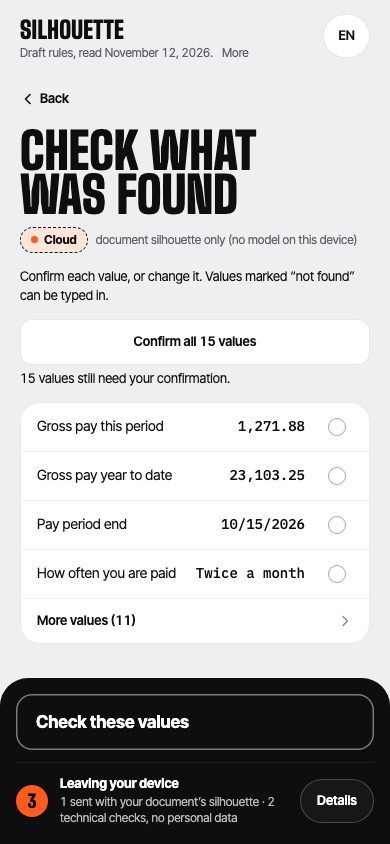
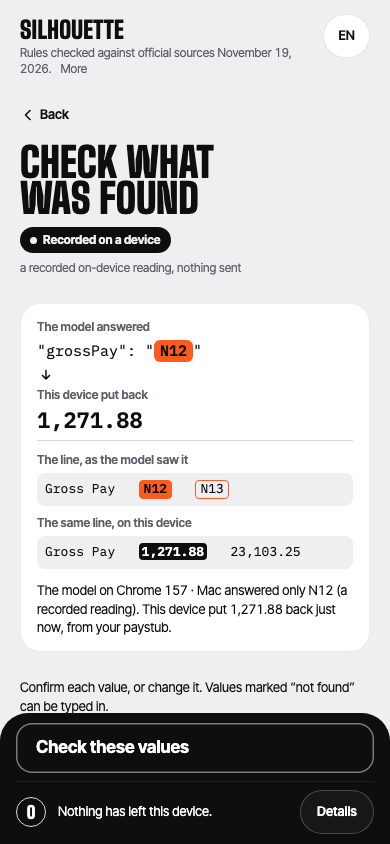
README: current screens - the web's judged path, and the iOS app on a real iPhone 17 Pro read by its own model

diff --git a/README.md b/README.md
@@ -8,18 +8,18 @@ Web, Android and iOS, built on one shared contract. Firebase AI Logic runs each 
 
 <p>
   <img src="docs/images/start.png" width="210" alt="Start screen: Find public benefits you may qualify for. An example shows a paystub on this device next to what could leave: placeholders W1, W2 and N12.">
-  <img src="docs/images/results.png" width="210" alt="Results from the rules on this device: three programs you may qualify for, two possible, one depending on a skipped answer, one probably not. Leaving your device: 0.">
-  <img src="docs/images/silhouette-first-screen.png" width="210" alt="This is what could leave your device: the paystub with every name, number and date replaced by an orange token chip.">
+  <img src="docs/images/results.png" width="210" alt="Results of the invented sample household: a note that it is a sample, not you; what the paystub changed (its yearly income, the results it changed); then the programs, each with its status and estimate. Leaving your device: 0.">
+  <img src="docs/images/silhouette-first-screen.png" width="210" alt="This is what could leave your device: the paystub with every name, number and date replaced by an orange token chip, and the ways on: read it from a recording on a device or in the cloud, or send the silhouette.">
 </p>
 
 <p>
   <img src="docs/images/ios-start.png" width="210" alt="The iOS app's start screen: the same headline and example in a native SwiftUI layout, with the privacy pill 'Nothing has left this iPhone' above the tab bar.">
-  <img src="docs/images/ios-results.png" width="210" alt="iOS results: You may qualify for 3 programs, checked on this iPhone, no AI used, then one card per program.">
-  <img src="docs/images/ios-silhouette.png" width="210" alt="iOS: What could leave. The sample paystub as token chips, with Send the silhouette and Keep everything on this iPhone.">
-  <img src="docs/images/ios-review.png" width="210" alt="iOS review: the values read from the paystub, each to confirm, and the yearly income worked out on this iPhone.">
+  <img src="docs/images/ios-results.png" width="210" alt="iOS on a real iPhone 17 Pro: You may qualify for 5 programs, checked on this iPhone, Rules + paystub; the sample household named as such; what the paystub changed, read by the model on this iPhone.">
+  <img src="docs/images/ios-silhouette.png" width="210" alt="iOS on a real iPhone 17 Pro: what could leave, the sample paystub as token chips, with Read on this iPhone and Keep everything on this iPhone.">
+  <img src="docs/images/ios-review.png" width="210" alt="iOS on a real iPhone 17 Pro: the iPhone's own model answered grossPay N12 and the iPhone put back 1,271.88; the line as the model saw it and the same line on this iPhone; confirm the 4 values that decide the result.">
 </p>
 
-The same flow as a native SwiftUI app (simulator captures; the recorded runs on a real iPhone 17 Pro are under [Evidence](#evidence)).
+The same flow as a native SwiftUI app. The start screen is a simulator capture; the other three are from a real iPhone 17 Pro, read by Apple's on-device model through Firebase AI Logic (recorded runs under [Evidence](#evidence)).
 
 ### Try it
 
@@ -93,7 +93,7 @@ Every limit and amount was read from the agencies' own publications on 2026-11-1
 
 **5. Review, confirm, sharper results.** The review opens with the reading's own answer: the model answered `"grossPay": "N12"`, and this device put back `1,271.88`. Each value found is shown next to the line it came from, to confirm or change. A badge says where it was read ("Cloud · document silhouette only" here, in a browser without an on-device model). Deterministic checks and annualization turn the confirmed document into a yearly income, and the results update: they say "Rules + paystub" (or W-2), how the document was read, and how the yearly income was worked out, with a link to change it.
 
-<p><img src="docs/images/review.png" width="250" alt="Check what was found: gross pay, year to date and pay date, each next to its source line, with Confirm and Change."></p>
+<p><img src="docs/images/review.png" width="250" alt="Check what was found: the model answered grossPay N12 and this device put back 1,271.88; the same line as the model saw it (placeholders) and on this device (the value); the four values that decide the result to confirm."></p>
 
 **6. "Leaving your device".** Before a request that may leave, the app lists what it carries and shows the exact request body. Afterwards the record lists every request that left, with its body, and every answer written on the device as "kept".
 
